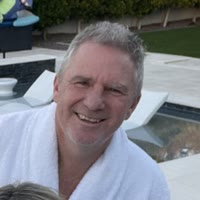
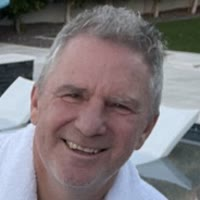
v100: tighter crop on Todd's photo

diff --git a/index.html b/index.html
@@ -34,7 +34,7 @@ footer{color:var(--muted);font-size:13px;border-top:1px solid var(--line);paddin
 .site-nav a[aria-current="page"]{color:var(--muted,#c9d3e0);background:none;cursor:default;pointer-events:none}
 .site-nav a[aria-current="page"]::before{content:"▸ "}
 </style>
-<script src="faces.js?v=99" defer></script>
+<script src="faces.js?v=100" defer></script>
 </head><body>
 <div class="layout"><main>
 <div class="wrap">
@@ -56,7 +56,7 @@ footer{color:var(--muted);font-size:13px;border-top:1px solid var(--line);paddin
   <section>
     <div class="lbl">Pages</div>
     <div class="grid" style="margin-top:8px">
-            <a class="card" href="picks/week6.html?v=99"><h2>Week 6 Picks</h2><p>Todd, Ryota and Scott pick winners; enter finals and the board grades everyone. Injuries and replacements per game.</p><span class="go">Open →</span></a>
+            <a class="card" href="picks/week6.html?v=100"><h2>Week 6 Picks</h2><p>Todd, Ryota and Scott pick winners; enter finals and the board grades everyone. Injuries and replacements per game.</p><span class="go">Open →</span></a>
       <a class="card" href="power-rankings/"><h2>Power Rankings</h2><p>All 32 teams after Week 5, movers, the Broncos panel, injuries, and this week's spreads against the market.</p><span class="go">Open →</span></a>
       <a class="card" href="broncos/week6.html"><h2>Broncos Pre-Game</h2><p>Week 6 vs the Seahawks: RUN IT!, secondary alert (Hufanga out, Surtain doubtful), player matchups, where Bo Nix ranks, coaching staffs, missed tackles, and the unit-by-unit read.</p><span class="go">Open →</span></a>
       <a class="card" href="injuries.html"><h2>Injury Report</h2><p>Every team, every listed player, Broncos first, with the one-week hit each team carries into this week's lines.</p><span class="go">Open →</span></a>

diff --git a/picks/week6.html b/picks/week6.html
@@ -370,8 +370,8 @@ h2 small{font-family:Barlow;font-size:13px;color:var(--muted);font-weight:500}
 @media (prefers-reduced-motion:reduce){.saved{transition:none}}
 @media (max-width:420px){h1{font-size:36px}.team{font-size:22px}.numbers{grid-template-columns:repeat(2,1fr)}}
 </style>
-<link rel="stylesheet" href="../theme.css?v=99"><link rel="stylesheet" href="../players.css?v=99"><script src="../players.js?v=99" defer></script>
-<script src="../faces.js?v=99" defer></script>
+<link rel="stylesheet" href="../theme.css?v=100"><link rel="stylesheet" href="../players.css?v=100"><script src="../players.js?v=100" defer></script>
+<script src="../faces.js?v=100" defer></script>
 </head><body>
 
 <div class="layout"><main>
@@ -585,7 +585,7 @@ function tiles(){
 
 // ---- persistence: shared store (Google Apps Script web app, Mack 2026-09-29) + local cache ----
 const STORE = "https://script.google.com/macros/s/AKfycbwy0C0StLOn41vJQOeqBElzg1QyAu84evLOujqtUO_0bKWTL3v_WS-YBCjaUgnvhjat/exec";
-const WEEK = 6, KEY = "wk06-cache", BOARD_VER = "v99";
+const WEEK = 6, KEY = "wk06-cache", BOARD_VER = "v100";
 const PEOPLE = ["Todd","Ryota","Scott"];
 const CHAMP = "Ryota";   // last week's winner wears the crown; set by nfl_site_week.py each Tuesday
 function loadCache(){ try{ Object.assign(state, JSON.parse(localStorage.getItem(KEY)||"{}")); }catch(e){} }

diff --git a/power-rankings/tune.html b/power-rankings/tune.html
@@ -67,7 +67,7 @@ input[type=text]{font:inherit;background:var(--card);color:var(--ink);border:1px
 footer{color:var(--muted);font-size:13px;border-top:1px solid var(--line);padding-top:12px}
 @media (max-width:420px){h1{font-size:36px}}
 </style>
-<link rel="stylesheet" href="../theme.css?v=99"><script src="../faces.js?v=99" defer></script>
+<link rel="stylesheet" href="../theme.css?v=100"><script src="../faces.js?v=100" defer></script>
 </head><body>
 <div class="wrap">
   <header>
@@ -117,7 +117,7 @@ footer{color:var(--muted);font-size:13px;border-top:1px solid var(--line);paddin
 </div>
 <script>
 const STORE = "https://script.google.com/macros/s/AKfycbwy0C0StLOn41vJQOeqBElzg1QyAu84evLOujqtUO_0bKWTL3v_WS-YBCjaUgnvhjat/exec";
-const BOARD_VER = "v99", MACK_VER = "326";
+const BOARD_VER = "v100", MACK_VER = "326";
 const $ = (s, r=document) => r.querySelector(s);
 const store = { get(k){ try{ return localStorage.getItem(k)||""; }catch(e){ return ""; } }, set(k,v){ try{ localStorage.setItem(k,v); }catch(e){} }, del(k){ try{ localStorage.removeItem(k); }catch(e){} } };
 const esc = s => String(s).replace(/[&<>"']/g, c => ({"&":"&amp;","<":"&lt;",">":"&gt;",'"':"&quot;","'":"&#39;"}[c]));

diff --git a/leaders.html b/leaders.html
@@ -33,8 +33,8 @@ tr.bron td{background:rgba(251,79,20,.22)}
 .site-nav a[aria-current="page"]{color:var(--muted);pointer-events:none} .site-nav a[aria-current="page"]::before{content:"▸ "}
 footer{color:var(--muted);font-size:13px;border-top:1px solid var(--line);padding-top:12px}
 </style>
-<link rel="stylesheet" href="theme.css?v=99">
-<link rel="stylesheet" href="players.css?v=99"><script src="players.js?v=99" defer></script></head><body>
+<link rel="stylesheet" href="theme.css?v=100">
+<link rel="stylesheet" href="players.css?v=100"><script src="players.js?v=100" defer></script></head><body>
 <div class="wrap">
   <header><div class="lbl">NFL 2026 · through Week 5</div><h1>Season <span>Leaders</span></h1>
   <div class="sub">Top five in every category: players by metric, then teams on offense, defense and special teams. Each card takes the leader's colours. Broncos rows highlighted; where they miss the top five, their rank is under the table. Stats from ESPN, fetched 2026-10-14 16:09 PT; points allowed computed from the finals.</div></header>

diff --git a/injuries.html b/injuries.html
@@ -40,8 +40,8 @@ h1{font-family:"Barlow Condensed";font-size:44px;font-weight:700;line-height:.95
 .site-nav a[aria-current="page"]{color:var(--muted);pointer-events:none} .site-nav a[aria-current="page"]::before{content:"▸ "}
 footer{color:var(--muted);font-size:13px;border-top:1px solid var(--line);padding-top:12px}
 </style>
-<link rel="stylesheet" href="theme.css?v=99">
-<link rel="stylesheet" href="players.css?v=99"><script src="players.js?v=99" defer></script></head><body>
+<link rel="stylesheet" href="theme.css?v=100">
+<link rel="stylesheet" href="players.css?v=100"><script src="players.js?v=100" defer></script></head><body>
 <div class="wrap">
   <header><div class="lbl">NFL 2026 · Week 6</div><h1>Injury <span>Report</span></h1>
   <div class="sub">Every team's listed injuries from ESPN's report, fetched 2026-10-14 09:13 PT, plus players hurt in last week's games found by Tuesday research. Most affected first: Giants −5.6, Buccaneers −4.1, 49ers −2.5, Browns −2.5, Chargers −2.5.</div></header>

diff --git a/broncos/week6.html b/broncos/week6.html
@@ -55,8 +55,8 @@ html{scroll-behavior:smooth} section,.alert,.read{scroll-margin-top:12px}
 footer{color:var(--muted);font-size:13px;border-top:1px solid var(--line);padding-top:12px}
 .read{background:var(--orange);color:var(--pg-dark);border-radius:6px;padding:14px 18px;font-weight:500} .read b{font-family:"Barlow Condensed";font-size:22px;display:block;margin-bottom:4px}
 </style>
-<link rel="stylesheet" href="../theme.css?v=99">
-<link rel="stylesheet" href="../players.css?v=99"><script src="../players.js?v=99" defer></script></head><body>
+<link rel="stylesheet" href="../theme.css?v=100">
+<link rel="stylesheet" href="../players.css?v=100"><script src="../players.js?v=100" defer></script></head><body>
 <div class="wrap" id="top">
   <header><div class="lbl">NFL 2026 · Week 6 · Broncos pre-game analysis</div>
   <h1>Broncos <span>vs Seahawks</span><span class="away" style="background:var(--orange)">HOME GAME · Empower Field at Mile High</span></h1>

diff --git a/power-rankings/index.html b/power-rankings/index.html
@@ -160,7 +160,7 @@
 </style>
 <!-- /SECTIONS-CSS -->
 <!-- STAMP-CSS --><style>.stamp{font-family:'Fira Sans',system-ui,sans-serif;font-size:.85rem;color:var(--muted,#5f6368);margin:-.6em 0 1em}#band .stamp{color:#1b2a5a;margin:.15em 0 0}</style><!-- /STAMP-CSS -->
-<link rel="stylesheet" href="../theme.css?v=99">
+<link rel="stylesheet" href="../theme.css?v=100">
 <style>.tune-cta{display:flex;flex-wrap:wrap;align-items:center;gap:6px 14px;background:var(--navy2,#0d2f57);border:1px solid var(--rule);border-left:8px solid var(--vc-dark,#FB4F14);border-radius:6px;padding:12px 16px;margin:12px 0 4px;text-decoration:none;color:var(--fg)}.tune-cta b{font-family:"Encode Sans Semi Condensed",sans-serif;font-size:1.25rem}.tune-cta span{color:var(--muted);font-size:.95rem}.tune-cta .go{color:var(--vc-dark,#FB4F14);font-weight:700;margin-left:auto}</style>
 </head>
 <body>

diff --git a/broncos/week5.html b/broncos/week5.html
@@ -55,7 +55,7 @@ html{scroll-behavior:smooth} section,.alert,.read{scroll-margin-top:12px}
 footer{color:var(--muted);font-size:13px;border-top:1px solid var(--line);padding-top:12px}
 .read{background:var(--orange);color:var(--pg-dark);border-radius:6px;padding:14px 18px;font-weight:500} .read b{font-family:"Barlow Condensed";font-size:22px;display:block;margin-bottom:4px}
 </style>
-<link rel="stylesheet" href="../theme.css?v=99"><link rel="stylesheet" href="../players.css?v=99"><script src="../players.js?v=99" defer></script>
+<link rel="stylesheet" href="../theme.css?v=100"><link rel="stylesheet" href="../players.css?v=100"><script src="../players.js?v=100" defer></script>
 </head><body>
 <div class="wrap" id="top">
   <header><div class="lbl">NFL 2026 · Week 5 · Broncos pre-game analysis</div>

diff --git a/power-rankings/season.html b/power-rankings/season.html
@@ -57,7 +57,7 @@
   .two li b{font-family:'Fira Sans',system-ui,sans-serif;font-variant-numeric:tabular-nums;margin-left:.3em}
   footer{margin-top:1.2rem;font-size:.85rem;color:var(--muted);border-top:1px solid var(--rule);padding-top:.4rem;font-style:italic}
 </style>
-<link rel="stylesheet" href="../theme.css?v=99">
+<link rel="stylesheet" href="../theme.css?v=100">
 <!-- STAMP-CSS --><style>.stamp{font-family:'Fira Sans',system-ui,sans-serif;font-size:.85rem;color:var(--muted,#5f6368);margin:-.6em 0 1em}#band .stamp{color:#1b2a5a;margin:.15em 0 0}</style><!-- /STAMP-CSS -->
 </head>
 <body>

diff --git a/picks/week4.html b/picks/week4.html
@@ -331,7 +331,7 @@ h2 small{font-family:Barlow;font-size:13px;color:var(--muted);font-weight:500}
 @media (prefers-reduced-motion:reduce){.saved{transition:none}}
 @media (max-width:420px){h1{font-size:36px}.team{font-size:22px}.numbers{grid-template-columns:repeat(2,1fr)}}
 </style>
-<link rel="stylesheet" href="../theme.css?v=99"><script src="../faces.js?v=99" defer></script>
+<link rel="stylesheet" href="../theme.css?v=100"><script src="../faces.js?v=100" defer></script>
 </head><body>
 
 <div class="layout"><main>

diff --git a/picks/week5.html b/picks/week5.html
@@ -350,7 +350,7 @@ h2 small{font-family:Barlow;font-size:13px;color:var(--muted);font-weight:500}
 @media (prefers-reduced-motion:reduce){.saved{transition:none}}
 @media (max-width:420px){h1{font-size:36px}.team{font-size:22px}.numbers{grid-template-columns:repeat(2,1fr)}}
 </style>
-<link rel="stylesheet" href="../theme.css?v=99"><script src="../faces.js?v=99" defer></script>
+<link rel="stylesheet" href="../theme.css?v=100"><script src="../faces.js?v=100" defer></script>
 </head><body>
 
 <div class="layout"><main>
